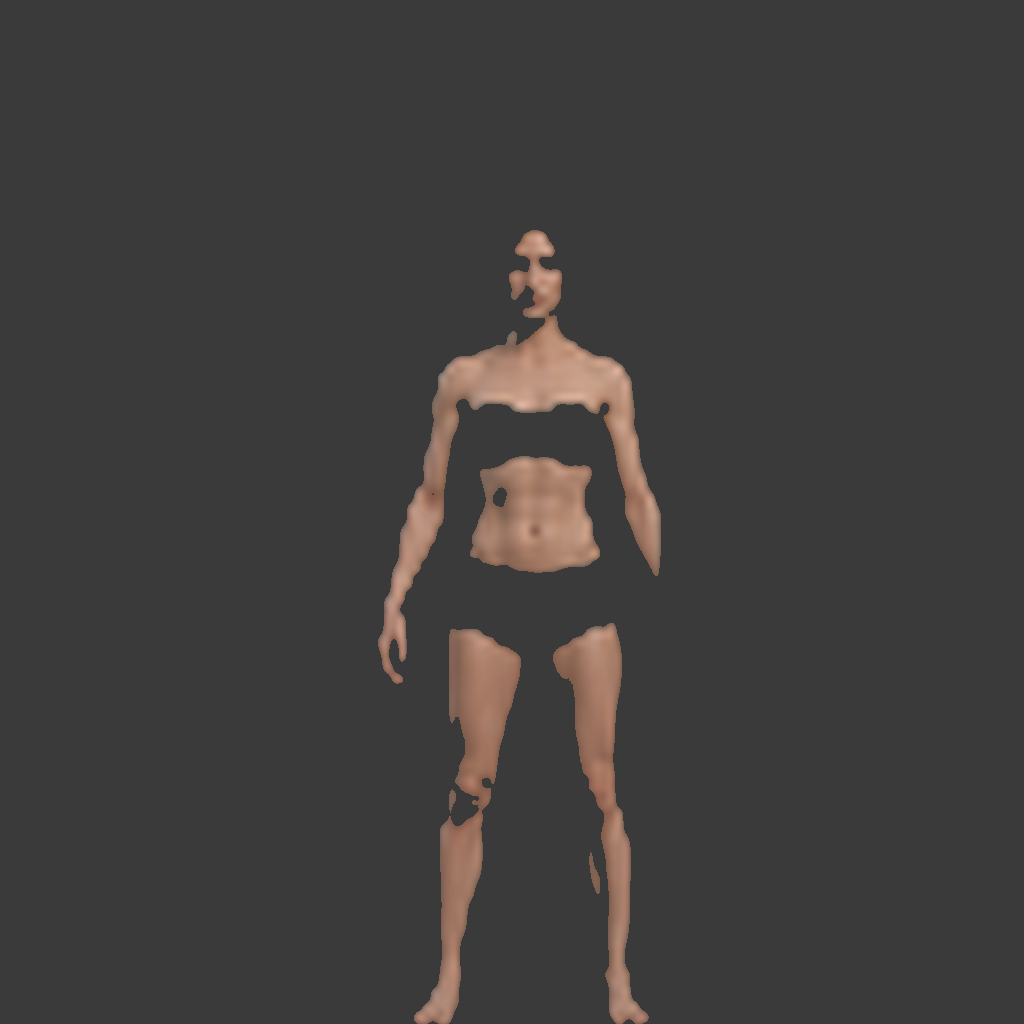
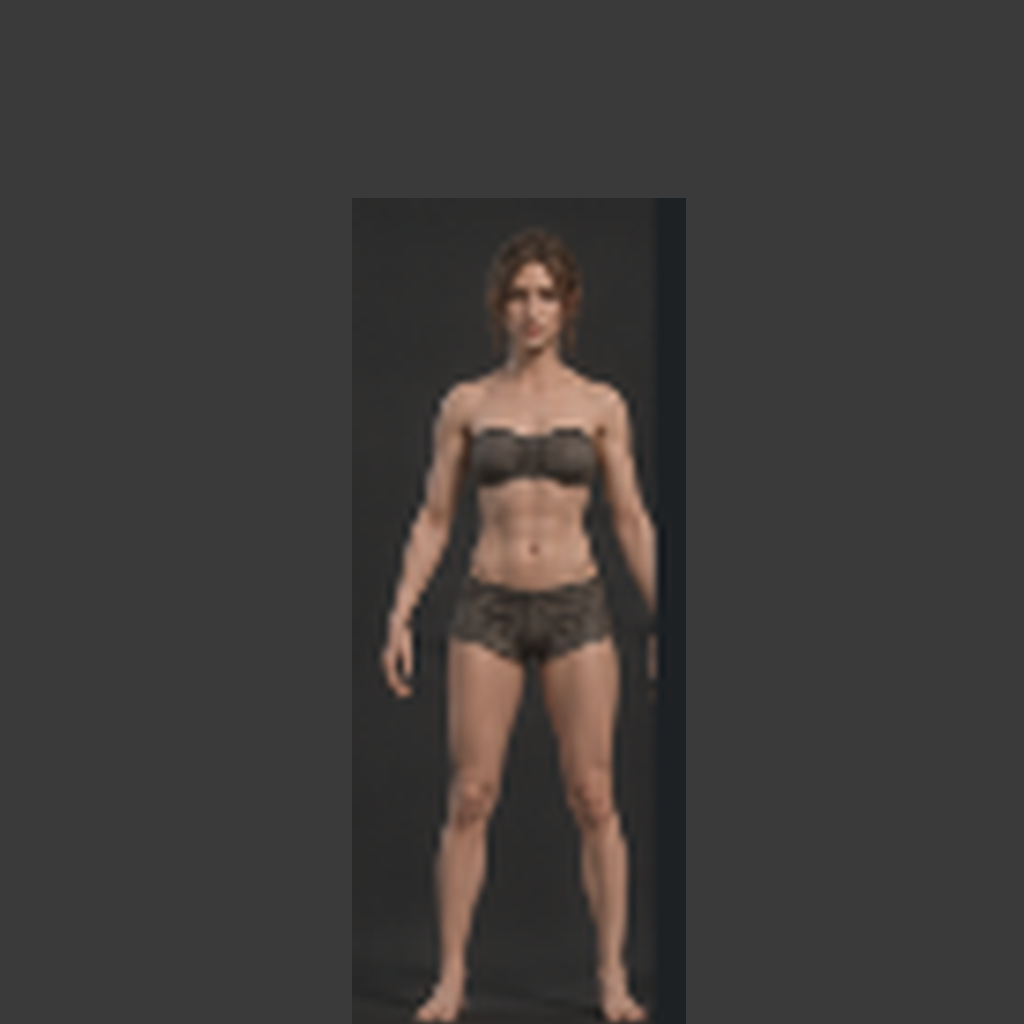
evidence: compare raw references without silhouette masks

Changed region(s): [[0.3438, 0.1875, 0.6875, 1.0], [0.4375, 0.6875, 0.5, 0.875], [0.4062, 0.875, 0.4688, 1.0]]

diff --git a/tools/build_character_comparisons.py b/tools/build_character_comparisons.py
@@ -14,21 +14,29 @@ OUT=ROOT/'docs/character_visuals/final_comparison'
 def mask(im, threshold):
     return im.convert('L').point(lambda p: 255 if p > threshold else 0)
 
+def measurable_mask(im):
+    rgb=im.convert('RGB'); out=Image.new('L',rgb.size,0); src=rgb.load(); dst=out.load()
+    for y in range(rgb.height):
+        for x in range(rgb.width):
+            r,g,b=src[x,y]
+            if max(r,g,b)-min(r,g,b)>=14 and max(r,g,b)>=48: dst[x,y]=255
+    return out
+
 for gender in ('male','female'):
     for view in ('front','side'):
         result=Image.open(OUT/f'{gender}_armsdown_{view}.png').convert('RGB')
-        reference=Image.open(OUT/f'validated_reference_{gender}_{view}.png').convert('RGB')
-        result_mask=mask(result,115); ref_mask=mask(reference,100)
+        reference=Image.open(OUT/f'validated_reference_raw_{gender}_{view}.png').convert('RGB')
+        result_mask=mask(result,115); ref_mask=measurable_mask(reference)
         rb=result_mask.getbbox(); fb=ref_mask.getbbox()
         if not rb or not fb: raise SystemExit(f'FAIL: missing measurable body bounds {gender}/{view}')
         scale=(rb[3]-rb[1])/float(fb[3]-fb[1])
         reference=reference.resize((round(reference.width*scale),round(reference.height*scale)),Image.Resampling.LANCZOS)
-        ref_mask=mask(reference,100); fb=ref_mask.getbbox()
+        ref_mask=measurable_mask(reference); fb=ref_mask.getbbox()
         dx=round((rb[0]+rb[2])/2-(fb[0]+fb[2])/2); dy=round(rb[1]-fb[1])
         aligned=Image.new('RGB',result.size,(58,58,58)); alpha=Image.new('L',result.size,0)
-        aligned.paste(reference,(dx,dy),ref_mask); alpha.paste(ref_mask,(dx,dy))
+        aligned.paste(reference,(dx,dy)); alpha.paste(ref_mask,(dx,dy))
         aligned.save(OUT/f'clean_reference_{gender}_{view}.png')
-        overlay=Image.new('RGB',result.size,(58,58,58)); overlay.paste((64,190,255),(0,0,result.width,result.height),result_mask); overlay.paste((255,85,85),(0,0,result.width,result.height),alpha)
+        overlay=Image.blend(aligned,result,0.5)
         overlay.save(OUT/f'clean_overlay_{gender}_{view}.png')
         thumb=lambda im: im.resize((512,512),Image.Resampling.LANCZOS)
         sheet=Image.new('RGB',(1536,512),(30,30,30)); sheet.paste(thumb(aligned),(0,0)); sheet.paste(thumb(result),(512,0)); sheet.paste(thumb(overlay),(1024,0))

diff --git a/tools/generate_character_reference_evidence.py b/tools/generate_character_reference_evidence.py
@@ -63,5 +63,7 @@ for gender in ("male", "female"):
         for x,y in chosen: ap[x,y]=255
         b=alpha.getbbox(); pad=3; b=(max(0,b[0]-pad),max(0,b[1]-pad),min(crop.width,b[2]+pad),min(crop.height,b[3]+pad))
         clean=crop.crop(b); alpha=alpha.crop(b)
-        canvas=Image.new("RGB",(clean.width,clean.height),(58,58,58)); canvas.paste(clean,(0,0),alpha)
-        canvas.save(OUT/f"validated_reference_{gender}_{view}.png")
+        # Keep the raw photographic crop intact. The component alpha is only a
+        # validation/alignment artifact and is never used as the body image.
+        clean.save(OUT/f"validated_reference_raw_{gender}_{view}.png")
+        alpha.save(OUT/f"validated_component_mask_{gender}_{view}.png")
